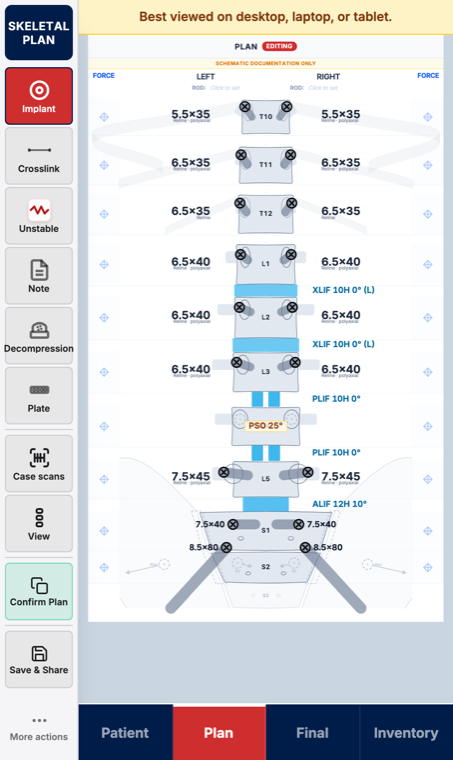
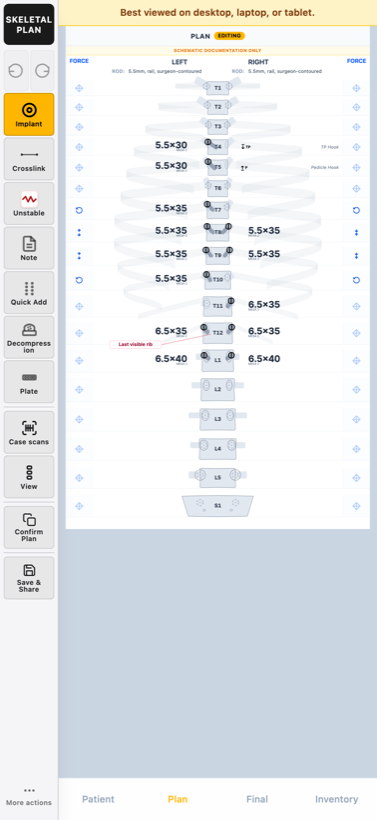
landing: new AIS (scoliosis) iPhone shot + Decompression highlight
- Replace the phone hero image with a fresh capture of the AIS scoliosis
  case at iPhone Pro Max aspect (377x820, was the wrong-aspect PSO shot);
  shows a different case from the desktop hero.
- Add a Decompression highlight (bony decompression by level/side via the
  Lee zones), framed for the research/registry value of the surgical side.
  Kept separate from the "Built for theatre" card.

diff --git a/index.html b/index.html
@@ -198,7 +198,7 @@
     </div>
     <div class="shot">
       <img class="desk" src="/img/screenshot-plan.png" alt="Skeletal Plan showing a pedicle subtraction osteotomy plan and operative record" loading="eager" width="1500">
-      <img class="phone" src="/img/screenshot-phone.png" alt="Skeletal Plan running on iPhone in portrait" loading="lazy" width="760">
+      <img class="phone" src="/img/screenshot-phone.png" alt="Skeletal Plan on iPhone showing a scoliosis construct" loading="lazy" width="820">
     </div>
   </div>
 </header>
@@ -337,6 +337,7 @@
         <div><b>Whole-spine instrumentation</b><span>Pedicle screws, hooks, rods and fixation, occiput to pelvis.</span></div>
         <div><b>Cages, discs &amp; osteotomies</b><span>Interbody cages (ACDF to ALIF), cervical and lumbar disc replacement, Schwab osteotomies and corpectomy.</span></div>
         <div><b>Deformity planning</b><span>Correction forces and level-specific screw trajectories (pedicle, lateral mass, cortical, translaminar).</span></div>
+        <div><b>Decompression</b><span>Map the bony decompression itself by level and side using the Lee zones (central, lateral recess, foraminal, extraforaminal). The surgical detail that matters for research and registries.</span></div>
         <div><b>Barcode &amp; UDI scanning</b><span>Reads GS1 and HIBC, auto-filling system, size, lot and expiry, or enter the sizes by hand.</span></div>
         <div><b>Traceability &amp; inventory</b><span>Per-component lot and expiry, with an auto-generated implant inventory.</span></div>
         <div><b>Variant anatomy</b><span>Transitional lumbosacral levels and non-standard thoracic and lumbar counts.</span></div>